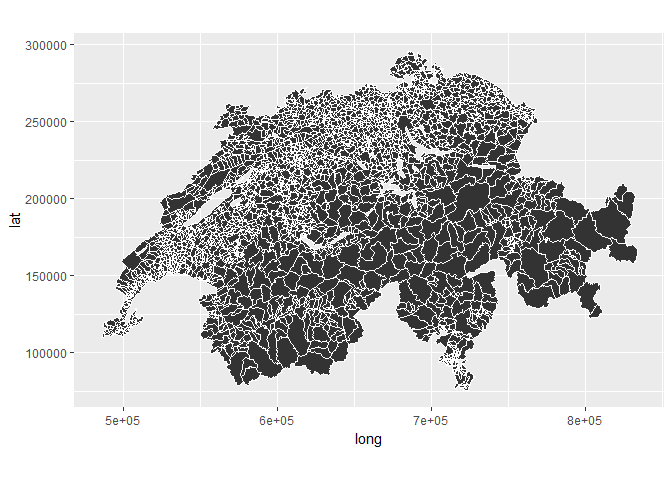
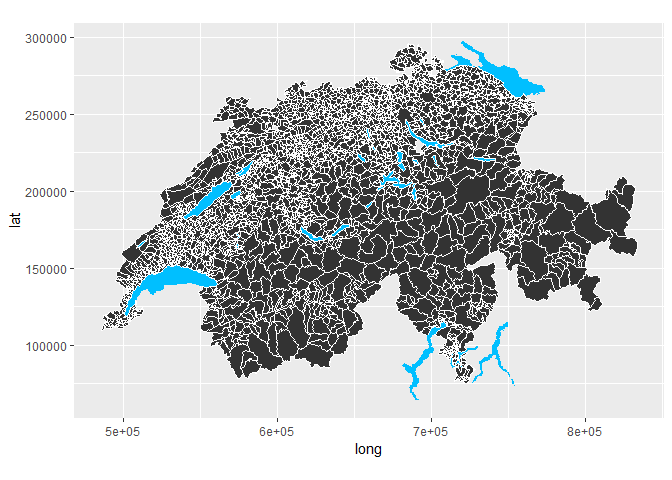
update with lake layer

diff --git a/README.md b/README.md
@@ -27,9 +27,11 @@ library(suistats)
 ggplot(data = make_layer_data(agg_level = "GDNR"),
        mapping = aes(x = long, y = lat, group = group)) +
   geom_polygon() +
+  geom_polygon(data = ch_shape_lake, fill = "deepskyblue") +
   geom_path(color = "white") +
   coord_equal()
 #> Loading required package: sp
+#> Regions defined for each Polygons
 ```
 
 <img src="man/figures/README-unnamed-chunk-1-1.png" width="100%" />
@@ -40,8 +42,10 @@ Plot districts:
 ggplot(data = make_layer_data(agg_level = "BZNR"),
        mapping = aes(x = long, y = lat, group = group)) +
   geom_polygon() +
+  geom_polygon(data = ch_shape_lake, fill = "deepskyblue") +
   geom_path(color = "white") +
   coord_equal()
+#> Regions defined for each Polygons
 ```
 
 <img src="man/figures/README-unnamed-chunk-2-1.png" width="100%" />
